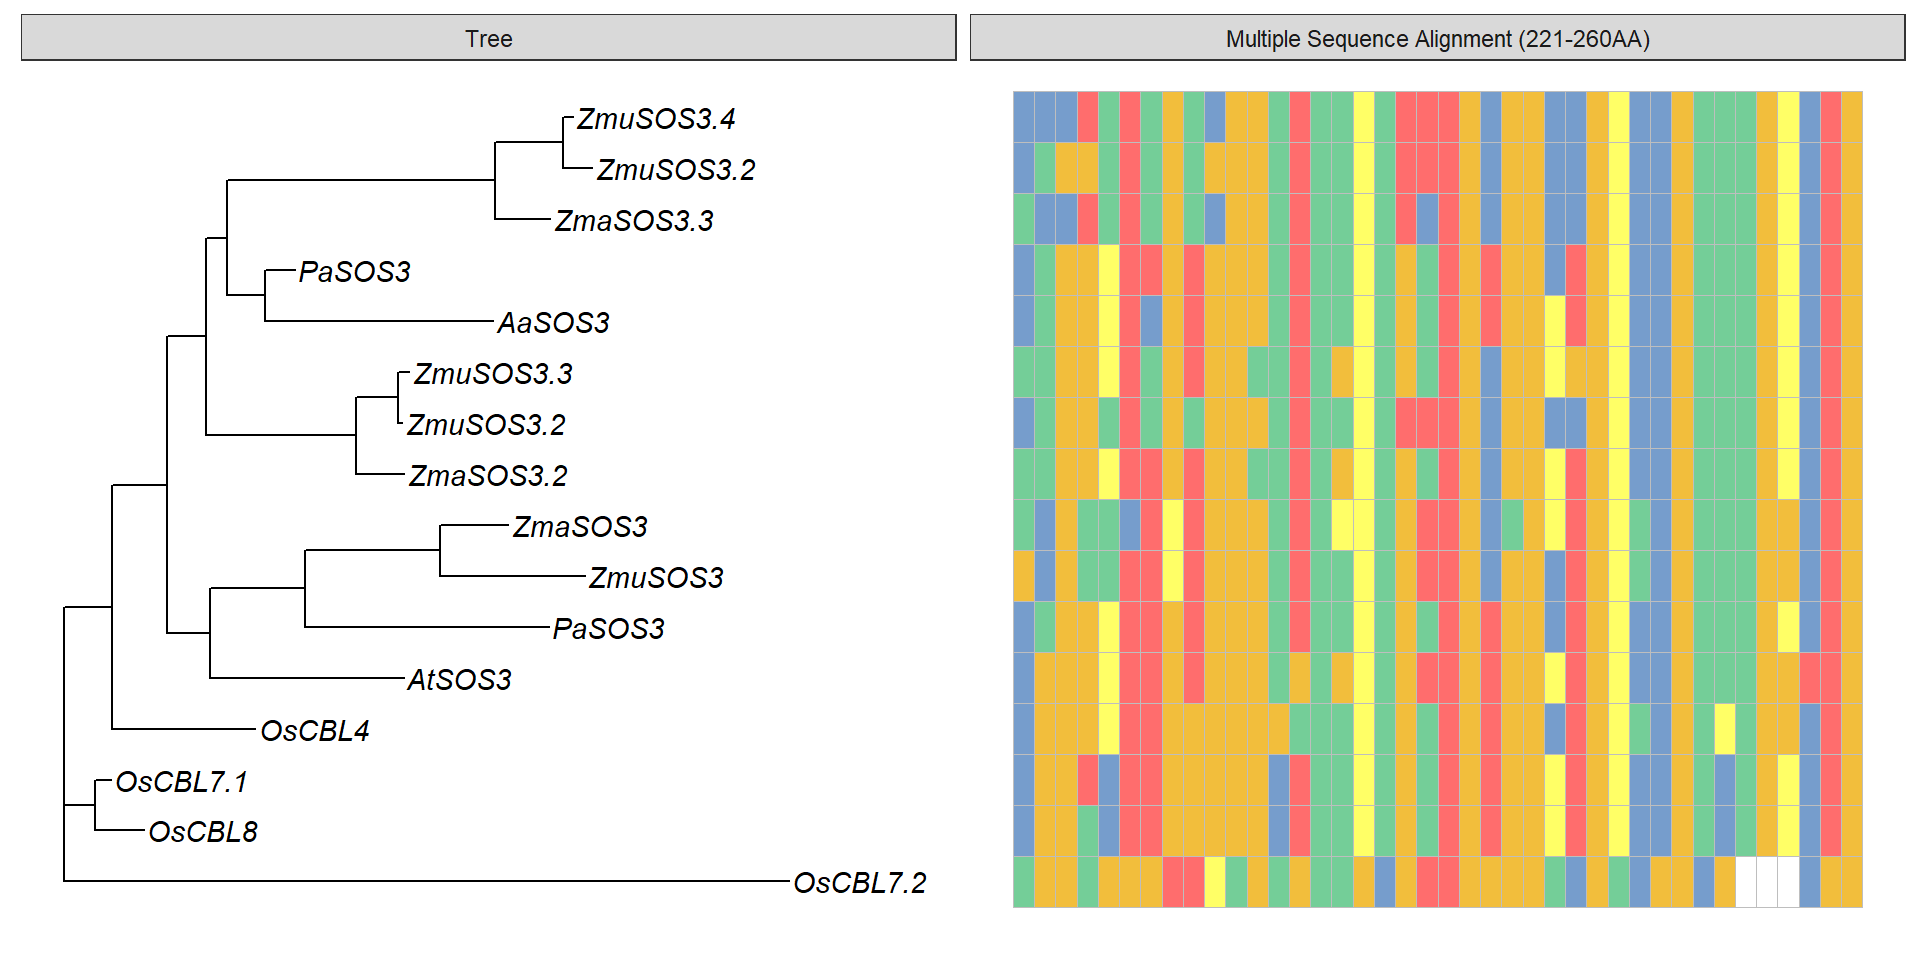
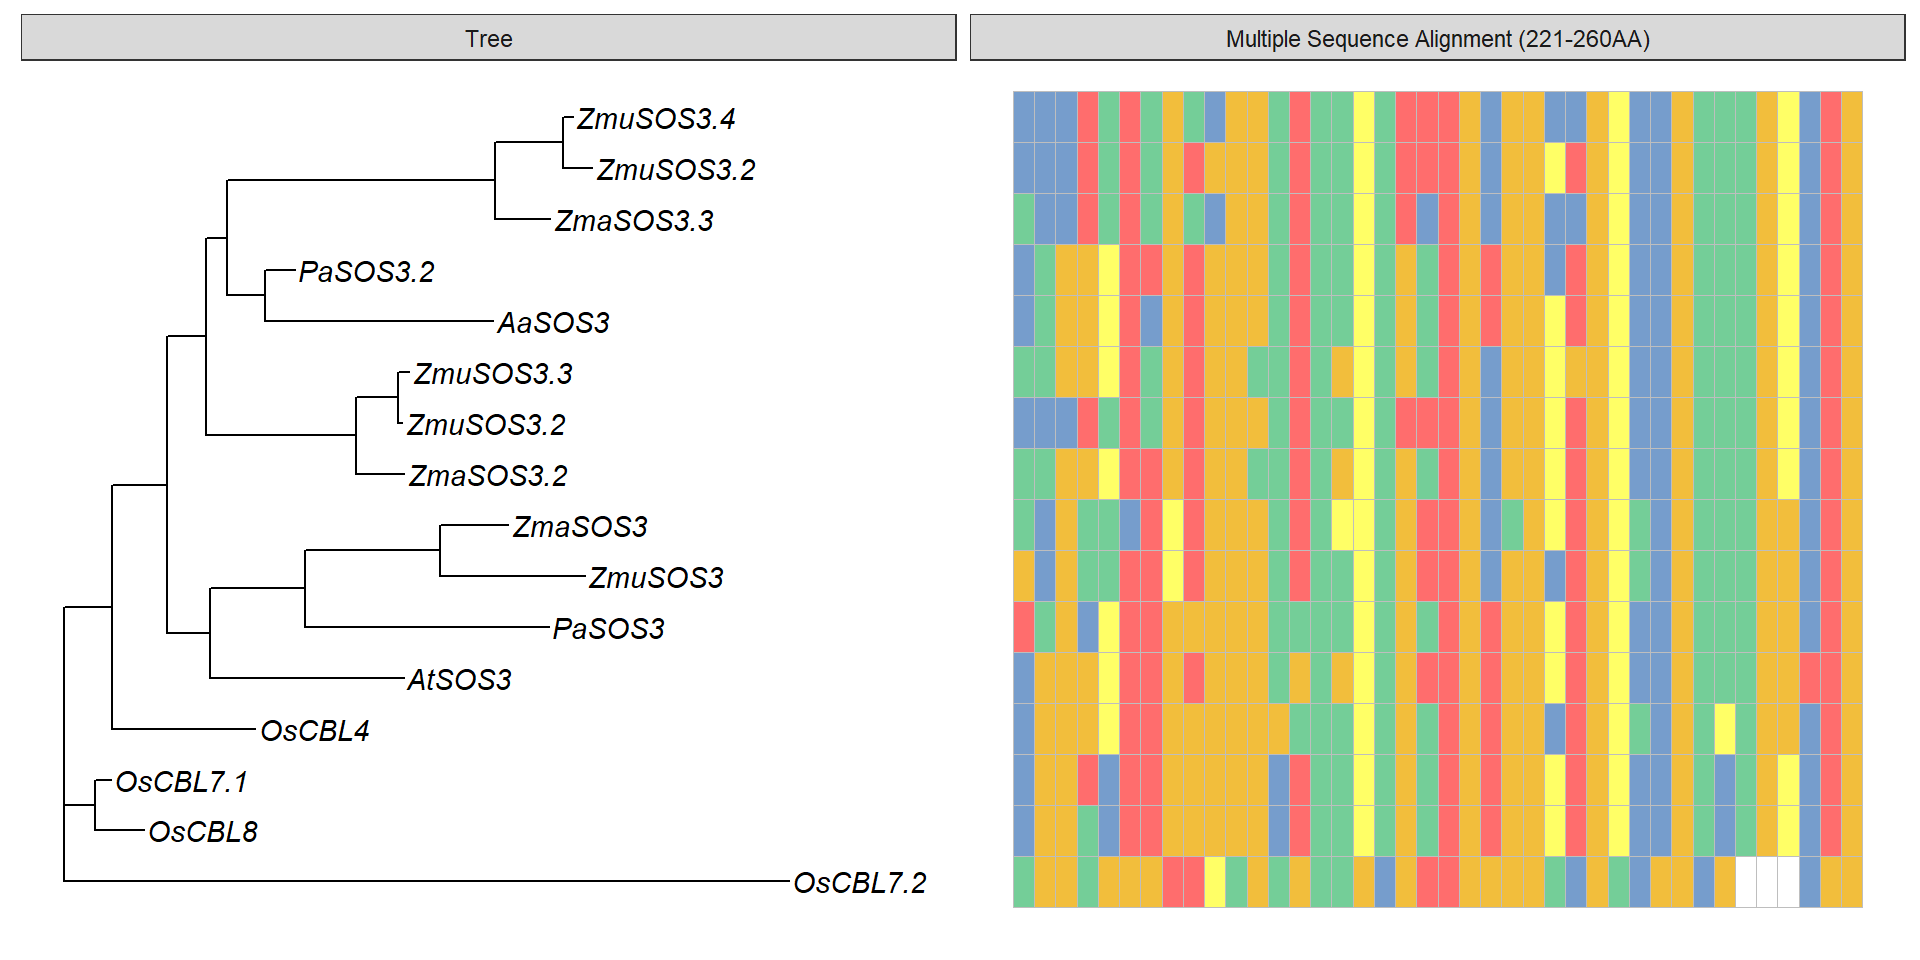
Build site.

diff --git a/docs/MSA.html b/docs/MSA.html
@@ -476,16 +476,16 @@ This reproducible <a href="http://rmarkdown.rstudio.com">R Markdown</a> analysis
 <div class="panel panel-default">
 <div class="panel-heading">
 <p class="panel-title">
-<a data-toggle="collapse" data-parent="#workflowr-checks" href="#strongRepositoryversionstrongahrefhttpsgithubcomphilippbayerAmphibolisPosidoniaComparisontree02708fd56aaa43dd30ead64b0fbde43166372dcatargetblank02708fda"> <span class="glyphicon glyphicon-ok text-success" aria-hidden="true"></span> <strong>Repository version:</strong> <a href="https://github.com/philippbayer/Amphibolis_Posidonia_Comparison/tree/02708fd56aaa43dd30ead64b0fbde43166372dca" target="_blank">02708fd</a> </a>
+<a data-toggle="collapse" data-parent="#workflowr-checks" href="#strongRepositoryversionstrongahrefhttpsgithubcomphilippbayerAmphibolisPosidoniaComparisontreee57f6d85b6a3cf876167d0723563ba3dcf4188b1targetblanke57f6d8a"> <span class="glyphicon glyphicon-ok text-success" aria-hidden="true"></span> <strong>Repository version:</strong> <a href="https://github.com/philippbayer/Amphibolis_Posidonia_Comparison/tree/e57f6d85b6a3cf876167d0723563ba3dcf4188b1" target="_blank">e57f6d8</a> </a>
 </p>
 </div>
[2 lines of base64/hex data omitted]
 <div class="panel-body">
 <p>
 Great! You are using Git for version control. Tracking code development and connecting the code version to the results is critical for reproducibility.
 </p>
 <p>
-The results in this page were generated with repository version <a href="https://github.com/philippbayer/Amphibolis_Posidonia_Comparison/tree/02708fd56aaa43dd30ead64b0fbde43166372dca" target="_blank">02708fd</a>. See the <em>Past versions</em> tab to see a history of the changes made to the R Markdown and HTML files.
+The results in this page were generated with repository version <a href="https://github.com/philippbayer/Amphibolis_Posidonia_Comparison/tree/e57f6d85b6a3cf876167d0723563ba3dcf4188b1" target="_blank">e57f6d8</a>. See the <em>Past versions</em> tab to see a history of the changes made to the R Markdown and HTML files.
 </p>
 <p>
 Note that you need to be careful to ensure that all relevant files for the analysis have been committed to Git prior to generating the results (you can use <code>wflow_publish</code> or <code>wflow_git_commit</code>). workflowr only checks the R Markdown file, but you know if there are other scripts or data files that it depends on. Below is the status of the Git repository when the results were generated:
@@ -496,15 +496,6 @@ Ignored files:
     Ignored:    .Rproj.user/
     Ignored:    analysis/OTT.nb.html
     Ignored:    analysis/plotRgenes.nb.html
-
-Untracked files:
-    Untracked:  data/OG0000189.RiceAraSeagrasses.aln.fasta
-    Untracked:  data/OG0000189.RiceAraSeagrasses.fa
-    Untracked:  output/SOS3_phylogeny.png
-
-Unstaged changes:
-    Deleted:    analysis/Lost_GO_terms_in_five_species.PlantSpecific.xlsx
-    Deleted:    analysis/Lost_GO_terms_in_five_species.xlsx
 
 </code></pre>
 <p>
@@ -543,6 +534,74 @@ Message
 </tr>
 </thead>
 <tbody>
+<tr>
+<td>
+Rmd
+</td>
+<td>
+<a href="https://github.com/philippbayer/Amphibolis_Posidonia_Comparison/blob/e57f6d85b6a3cf876167d0723563ba3dcf4188b1/analysis/MSA.Rmd" target="_blank">e57f6d8</a>
+</td>
+<td>
+Philipp Bayer
+</td>
+<td>
+2022-03-10
+</td>
+<td>
+Fix one label!
+</td>
+</tr>
+<tr>
+<td>
+Rmd
+</td>
+<td>
+<a href="https://github.com/philippbayer/Amphibolis_Posidonia_Comparison/blob/ebd08f5d59b994e94c64805201b6325c506a0a40/analysis/MSA.Rmd" target="_blank">ebd08f5</a>
+</td>
+<td>
+Philipp Bayer
+</td>
+<td>
+2022-03-10
+</td>
+<td>
+Add missing files
+</td>
+</tr>
+<tr>
+<td>
+html
+</td>
+<td>
+<a href="https://rawcdn.githack.com/philippbayer/Amphibolis_Posidonia_Comparison/ebd08f5d59b994e94c64805201b6325c506a0a40/docs/MSA.html" target="_blank">ebd08f5</a>
+</td>
+<td>
+Philipp Bayer
+</td>
+<td>
+2022-03-10
+</td>
+<td>
+Add missing files
+</td>
+</tr>
+<tr>
+<td>
+html
+</td>
+<td>
+<a href="https://rawcdn.githack.com/philippbayer/Amphibolis_Posidonia_Comparison/8886b0e42ae473b0aa6a8ba5b72eb8e166010f98/docs/MSA.html" target="_blank">8886b0e</a>
+</td>
+<td>
+Philipp Bayer
+</td>
+<td>
+2022-03-10
+</td>
+<td>
+Build site.
+</td>
+</tr>
 <tr>
 <td>
 Rmd
@@ -613,7 +672,7 @@ p2 + geom_facet(geom = geom_msa, data = data2,  panel = &#39;Multiple Sequence A
 old_names &lt;- trees$tip.label
 # [1] &quot;3O.sativa&quot;  &quot;4O.sativa&quot;  &quot;5O.sativa&quot;  &quot;7A.thalian&quot; &quot;8Z.mueller&quot; &quot;15Z.marina&quot; &quot;10P.austra&quot; &quot;13Z.marina&quot;
 # [9] &quot;12Z.muelle&quot; &quot;10Z.muelle&quot; &quot;14Z.marina&quot; &quot;9Z.mueller&quot; &quot;11Z.muelle&quot; &quot;1A.amphibo&quot; &quot;6P.austral&quot; &quot;2O.sativa&quot;
-new_names  &lt;- c( &#39;OsCBL8&#39;, &#39;OsCBL7.1&#39;, &#39;OsCBL4&#39;, &#39;AtSOS3&#39;, &#39;ZmuSOS3&#39;, &#39;ZmaSOS3&#39;, &#39;PaSOS3&#39;, &#39;ZmaSOS3.2&#39;, &#39;ZmuSOS3.2&#39;, &#39;ZmuSOS3.3&#39;, &#39;ZmaSOS3.3&#39;, &#39;ZmuSOS3.2&#39;, &#39;ZmuSOS3.4&#39;, &#39;AaSOS3&#39;, &#39;PaSOS3&#39;, &#39;OsCBL7.2&#39;)
+new_names  &lt;- c( &#39;OsCBL8&#39;, &#39;OsCBL7.1&#39;, &#39;OsCBL4&#39;, &#39;AtSOS3&#39;, &#39;ZmuSOS3&#39;, &#39;ZmaSOS3&#39;, &#39;PaSOS3&#39;, &#39;ZmaSOS3.2&#39;, &#39;ZmuSOS3.2&#39;, &#39;ZmuSOS3.3&#39;, &#39;ZmaSOS3.3&#39;, &#39;ZmuSOS3.2&#39;, &#39;ZmuSOS3.4&#39;, &#39;AaSOS3&#39;, &#39;PaSOS3.2&#39;, &#39;OsCBL7.2&#39;)
 rename_df &lt;- data.frame(old = old_names, new = new_names)
 rename_df</code></pre>
 <pre><code>          old       new
@@ -631,7 +690,7 @@ rename_df</code></pre>
 12 9Z.mueller ZmuSOS3.2
 13 11Z.muelle ZmuSOS3.4
 14 1A.amphibo    AaSOS3
-15 6P.austral    PaSOS3
+15 6P.austral  PaSOS3.2
 16  2O.sativa  OsCBL7.2</code></pre>
 <pre class="r"><code>trees &lt;- rename_taxa(trees, rename_df, old, new)
 p3 &lt;- ggtree(trees) + geom_tiplab(fontface=&#39;italic&#39;)
@@ -649,6 +708,7 @@ data2 &lt;- data2 %&gt;% mutate(name = str_replace_all(name, replace_vector))</c
 <pre class="r"><code>final_p</code></pre>
 <p><img src="figure/MSA.Rmd/unnamed-chunk-8-1.png" width="960" style="display: block; margin: auto;" /></p>
 <pre class="r"><code>cowplot::save_plot(final_p, filename = &#39;output/SOS3_phylogeny.png&#39;, base_width=10)</code></pre>
+<p>“However, apparent photosynthesis is still maintained at a salinity 15% that of normal seawater and at temperatures of 3 and 30°C, consistent with the ecological role of Z. muelleri as an intertidal species.” <a href="https://www.sciencedirect.com/science/article/abs/pii/0304377085900634" class="uri">https://www.sciencedirect.com/science/article/abs/pii/0304377085900634</a></p>
 <br>
 <p>
 <button type="button" class="btn btn-default btn-workflowr btn-workflowr-sessioninfo" data-toggle="collapse" data-target="#workflowr-sessioninfo" style="display: block;">

diff --git a/docs/index.html b/docs/index.html
@@ -336,16 +336,16 @@ This reproducible <a href="http://rmarkdown.rstudio.com">R Markdown</a> analysis
 <div class="panel panel-default">
 <div class="panel-heading">
 <p class="panel-title">
-<a data-toggle="collapse" data-parent="#workflowr-checks" href="#strongRepositoryversionstrongahrefhttpsgithubcomphilippbayerAmphibolisPosidoniaComparisontree02708fd56aaa43dd30ead64b0fbde43166372dcatargetblank02708fda"> <span class="glyphicon glyphicon-ok text-success" aria-hidden="true"></span> <strong>Repository version:</strong> <a href="https://github.com/philippbayer/Amphibolis_Posidonia_Comparison/tree/02708fd56aaa43dd30ead64b0fbde43166372dca" target="_blank">02708fd</a> </a>
+<a data-toggle="collapse" data-parent="#workflowr-checks" href="#strongRepositoryversionstrongahrefhttpsgithubcomphilippbayerAmphibolisPosidoniaComparisontreee57f6d85b6a3cf876167d0723563ba3dcf4188b1targetblanke57f6d8a"> <span class="glyphicon glyphicon-ok text-success" aria-hidden="true"></span> <strong>Repository version:</strong> <a href="https://github.com/philippbayer/Amphibolis_Posidonia_Comparison/tree/e57f6d85b6a3cf876167d0723563ba3dcf4188b1" target="_blank">e57f6d8</a> </a>
 </p>
 </div>
[2 lines of base64/hex data omitted]
 <div class="panel-body">
 <p>
 Great! You are using Git for version control. Tracking code development and connecting the code version to the results is critical for reproducibility.
 </p>
 <p>
-The results in this page were generated with repository version <a href="https://github.com/philippbayer/Amphibolis_Posidonia_Comparison/tree/02708fd56aaa43dd30ead64b0fbde43166372dca" target="_blank">02708fd</a>. See the <em>Past versions</em> tab to see a history of the changes made to the R Markdown and HTML files.
+The results in this page were generated with repository version <a href="https://github.com/philippbayer/Amphibolis_Posidonia_Comparison/tree/e57f6d85b6a3cf876167d0723563ba3dcf4188b1" target="_blank">e57f6d8</a>. See the <em>Past versions</em> tab to see a history of the changes made to the R Markdown and HTML files.
 </p>
 <p>
 Note that you need to be careful to ensure that all relevant files for the analysis have been committed to Git prior to generating the results (you can use <code>wflow_publish</code> or <code>wflow_git_commit</code>). workflowr only checks the R Markdown file, but you know if there are other scripts or data files that it depends on. Below is the status of the Git repository when the results were generated:
@@ -357,14 +357,8 @@ Ignored files:
     Ignored:    analysis/OTT.nb.html
     Ignored:    analysis/plotRgenes.nb.html
 
-Untracked files:
-    Untracked:  data/OG0000189.RiceAraSeagrasses.aln.fasta
-    Untracked:  data/OG0000189.RiceAraSeagrasses.fa
-    Untracked:  output/SOS3_phylogeny.png
-
 Unstaged changes:
-    Deleted:    analysis/Lost_GO_terms_in_five_species.PlantSpecific.xlsx
-    Deleted:    analysis/Lost_GO_terms_in_five_species.xlsx
+    Modified:   output/SOS3_phylogeny.png
 
 </code></pre>
 <p>
@@ -403,6 +397,23 @@ Message
 </tr>
 </thead>
 <tbody>
+<tr>
+<td>
+html
+</td>
+<td>
+<a href="https://rawcdn.githack.com/philippbayer/Amphibolis_Posidonia_Comparison/8886b0e42ae473b0aa6a8ba5b72eb8e166010f98/docs/index.html" target="_blank">8886b0e</a>
+</td>
+<td>
+Philipp Bayer
+</td>
+<td>
+2022-03-10
+</td>
+<td>
+Build site.
+</td>
+</tr>
 <tr>
 <td>
 Rmd
